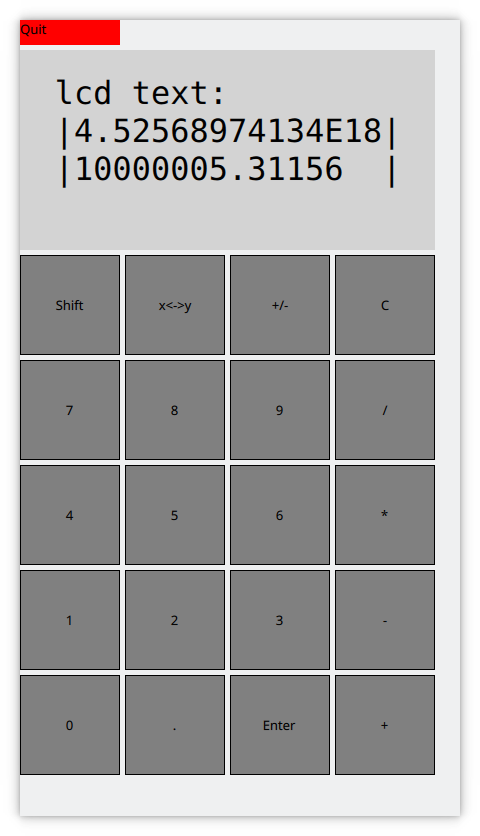
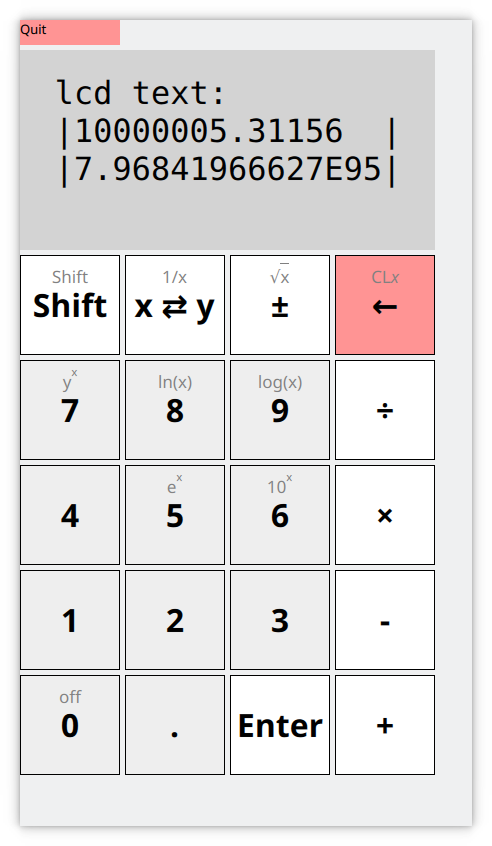
update gui

diff --git a/qt_gui/main.qml b/qt_gui/main.qml
@@ -19,7 +19,7 @@ ApplicationWindow
 		Rectangle{
 			width: 100
 			height: 25
-			color: "red"
+			color: "#ff9494"
 			Text {text: "Quit"}
 			MouseArea {
 				onClicked: Qt.quit()
@@ -56,10 +56,21 @@ ApplicationWindow
 						id: key_key;
 						width: 100;
 						height: 100;
-						color: "gray"
+						color: getBackgroundColor(parent.objectName, index)
 						border { width: 1; color: "black" }
 						Text {
-							text: {getText(parent.parent.objectName, index)}
+							horizontalAlignment: Text.AlignHCenter
+							font.pointSize: 16
+							color: "gray"
+							text: {getShiftedText(parent.parent.objectName, index) + "<br><br>"}
+								textFormat: Text.RichText
+								anchors.centerIn: parent
+						}
+						Text {
+							horizontalAlignment: Text.AlignHCenter
+							font.pointSize: 24
+							text: {"<br>" + getText(parent.parent.objectName, index) + "<br>"}
+							textFormat: Text.RichText
 							anchors.centerIn: parent
 						}
 						MouseArea {
@@ -74,13 +85,37 @@ ApplicationWindow
 
 	function getText(row, col) {
 		var keys = [
-			["Shift", "x<->y", "+/-", "C"],
-			["7", "8", "9", "/"],
-			["4", "5", "6", "*"],
-			["1", "2", "3", "-"],
-			["0", ".", "Enter", "+"]
+			["Shift", "x ⇄ y", "±",     "←"],
+			["7",     "8",     "9",     "÷"],
+			["4",     "5",     "6",     "×"],
+			["1",     "2",     "3",     "-"],
+			["0",     ".",     "Enter", "+"]
 		]
 
-		return keys[row][col]
+		return "<b>" + keys[row][col] + "</b>"
+	}
+	
+	function getShiftedText(row, col) {
+		var shifted_keys = [
+		["Shift", "1/x", " √<span style=\"text-decoration: overline\">x</span> ",   "CL<i>x</i>"],
+		["y<sup>x</sup> ",   "ln(x)", "log(x)", ""],
+		["",      "e<sup>x</sup>",   "10<sup>x</sup>",   ""],
+		["",      "",      "",       ""],
+		["off",   "",      "",       ""]
+		]
+		
+		return "<small>" + shifted_keys[row][col] + "</small>"
+	}
+	
+	function getBackgroundColor(row, col) {
+		var background_color = [
+			["white",   "white",   "white", "#ff9494"],
+			["#eeeeee", "#eeeeee", "#eeeeee", "white"],
+			["#eeeeee", "#eeeeee", "#eeeeee", "white"],
+			["#eeeeee", "#eeeeee", "#eeeeee", "white"],
+			["#eeeeee", "#eeeeee", "white",   "white"]
+		]
+		
+		return background_color[row][col]
 	}
 }

diff --git a/src/lcd_emulator.c b/src/lcd_emulator.c
@@ -15,6 +15,8 @@
 static uint8_t lcd_row, lcd_col;
 static char lcd_buf[MAX_ROWS][MAX_CHARS_PER_LINE];
 
+static char enable_checks = 1;
+
 const char* get_lcd_buf(void){
 	return &lcd_buf[0][0];
 }
@@ -71,12 +73,20 @@ void LCD_OutString(const char *string, uint8_t max_chars) {
 	}
 }
 
+void LCD_OutString_Initial(const char *string, uint8_t max_chars) {
+	enable_checks = 0;
+	LCD_OutString(string, max_chars);
+	enable_checks = 1;
+}
+
 static int is_valid_character(char letter){
 	if (isdigit(letter)){
 		return 1;
 	} else if(letter == CGRAM_EXP || letter == CGRAM_EXP_NEG){
 		return 1;
 	} else if(letter == '.' || letter == ' ' || letter == '-'){
+		return 1;
+	} else if(letter == '^'){
 		return 1;
 	}
 
@@ -94,7 +104,7 @@ short TERMIO_PutChar(unsigned char letter) {
 		}
 	}
 	//warn if unknown character
-	if (!is_valid_character(letter)) {
+	if (!is_valid_character(letter) && enable_checks) {
 		printf("\nerror @%d,%d, invalid character %d\n",
 				lcd_row, lcd_col, letter);
 	}

diff --git a/src/lcd.h b/src/lcd.h
@@ -16,6 +16,11 @@ void LCD_Clear(void);
 void LCD_GoTo(uint8_t row, uint8_t col);
 
 void LCD_OutString(__xdata const char* string, uint8_t max_chars);
+#ifdef DESKTOP
+void LCD_OutString_Initial(__xdata const char* string, uint8_t max_chars);
+#else
+#define LCD_OutString_Initial(a, b) LCD_OutString(a, b)
+#endif
 short TERMIO_PutChar(unsigned char letter);
 void LCD_OutNibble(uint8_t x);
 void LCD_ClearToEnd(uint8_t curr_row);

diff --git a/src/main.c b/src/main.c
@@ -208,7 +208,7 @@ int main()
 	ExpBuf[0] = 0;
 	ExpBuf[1] = 0;
 
-	LCD_OutString(VER_STR, 32);
+	LCD_OutString_Initial(VER_STR, 32);
 #ifdef DESKTOP
 	LcdAvailable.release();
 #endif
